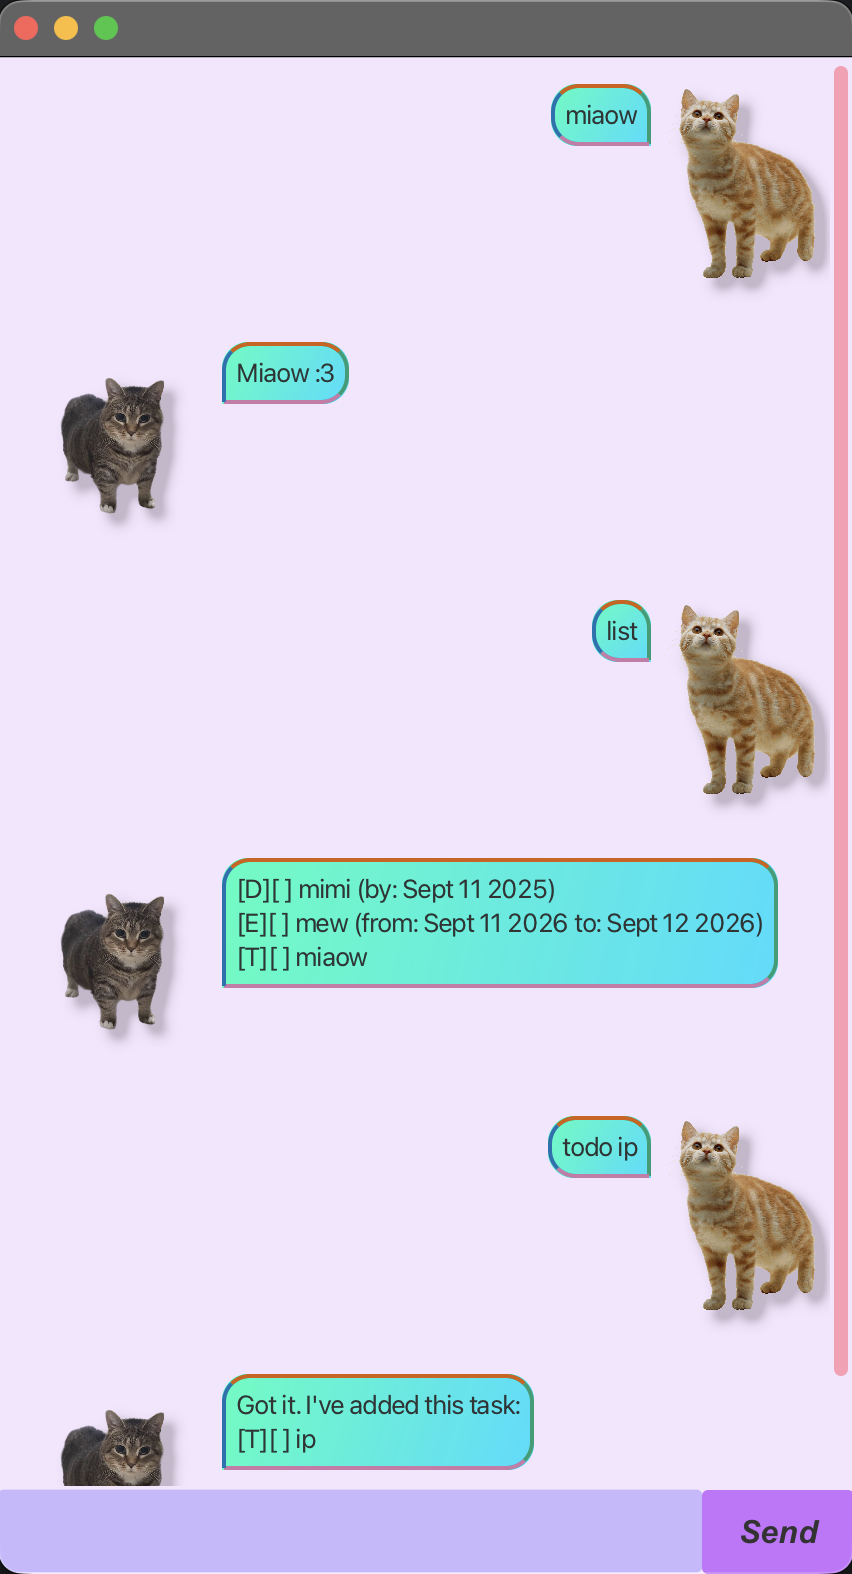
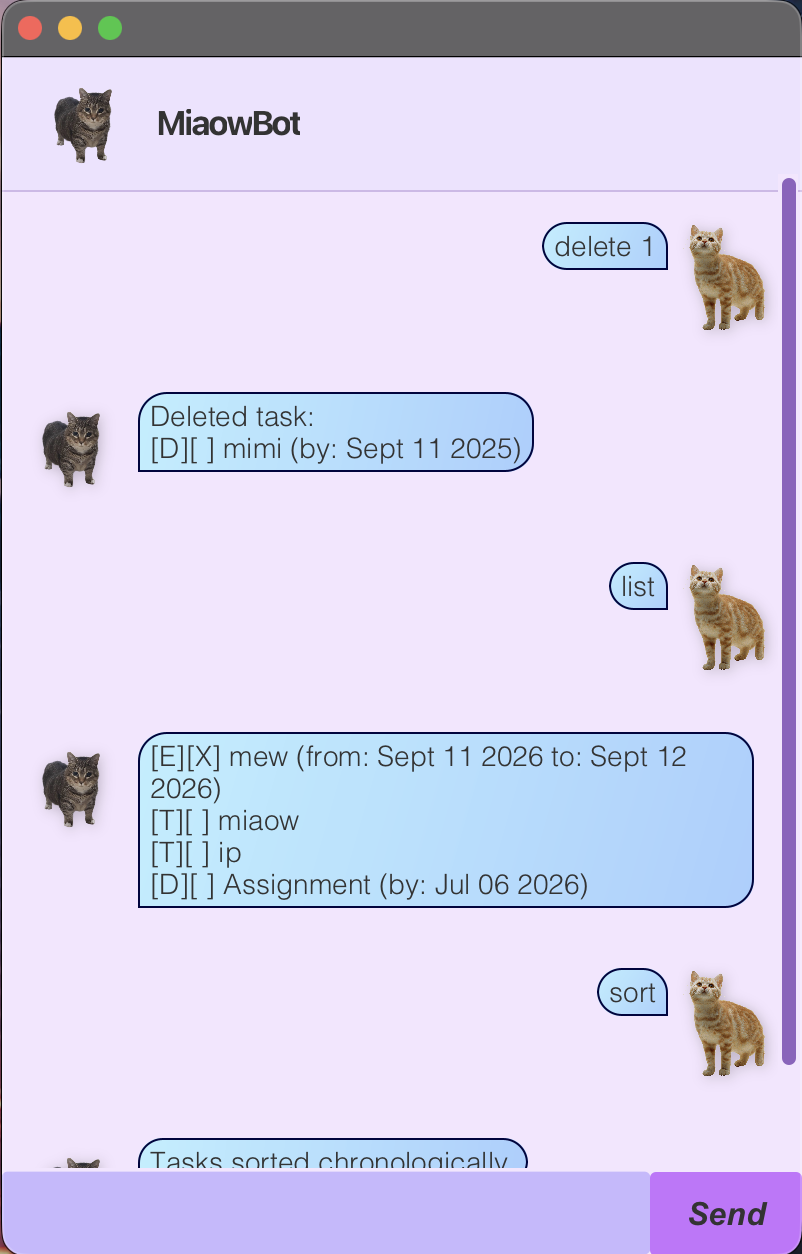
update user guide

diff --git a/docs/README.md b/docs/README.md
@@ -1,6 +1,6 @@
 # MiaowBot User Guide
 
-<img width="426" height="787" alt="Ui" src="https://github.com/user-attachments/assets/7fc75923-eb28-4598-99c2-4c9be77b5448" />
+![Ui.png](Ui.png)
 
 MiaowBot helps you manage three types of tasks:
 
